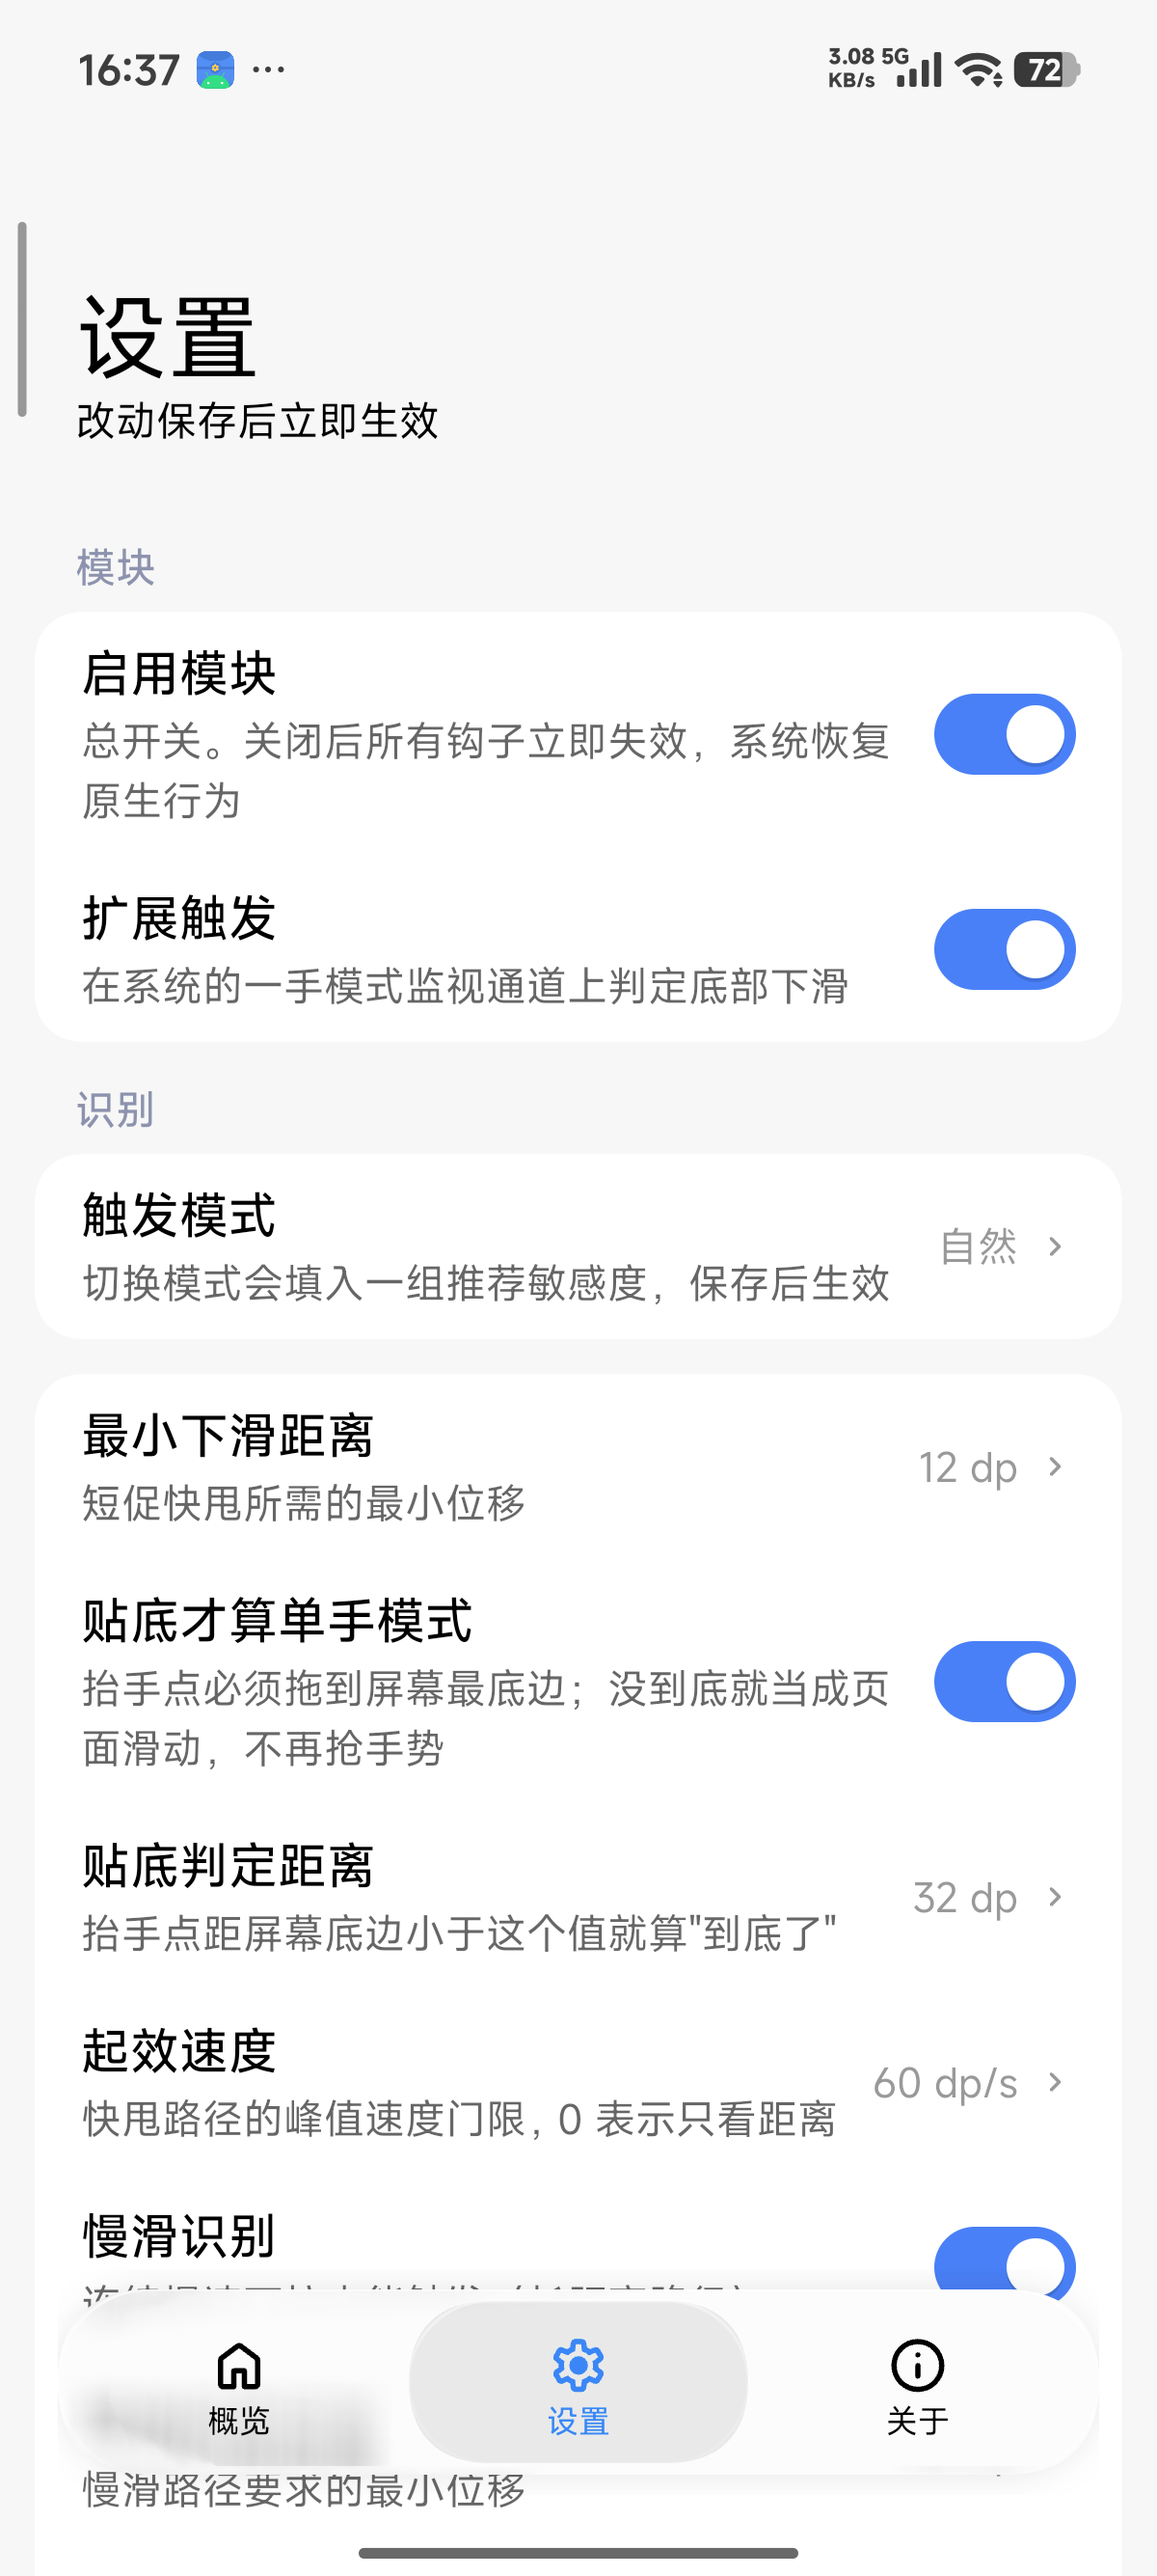
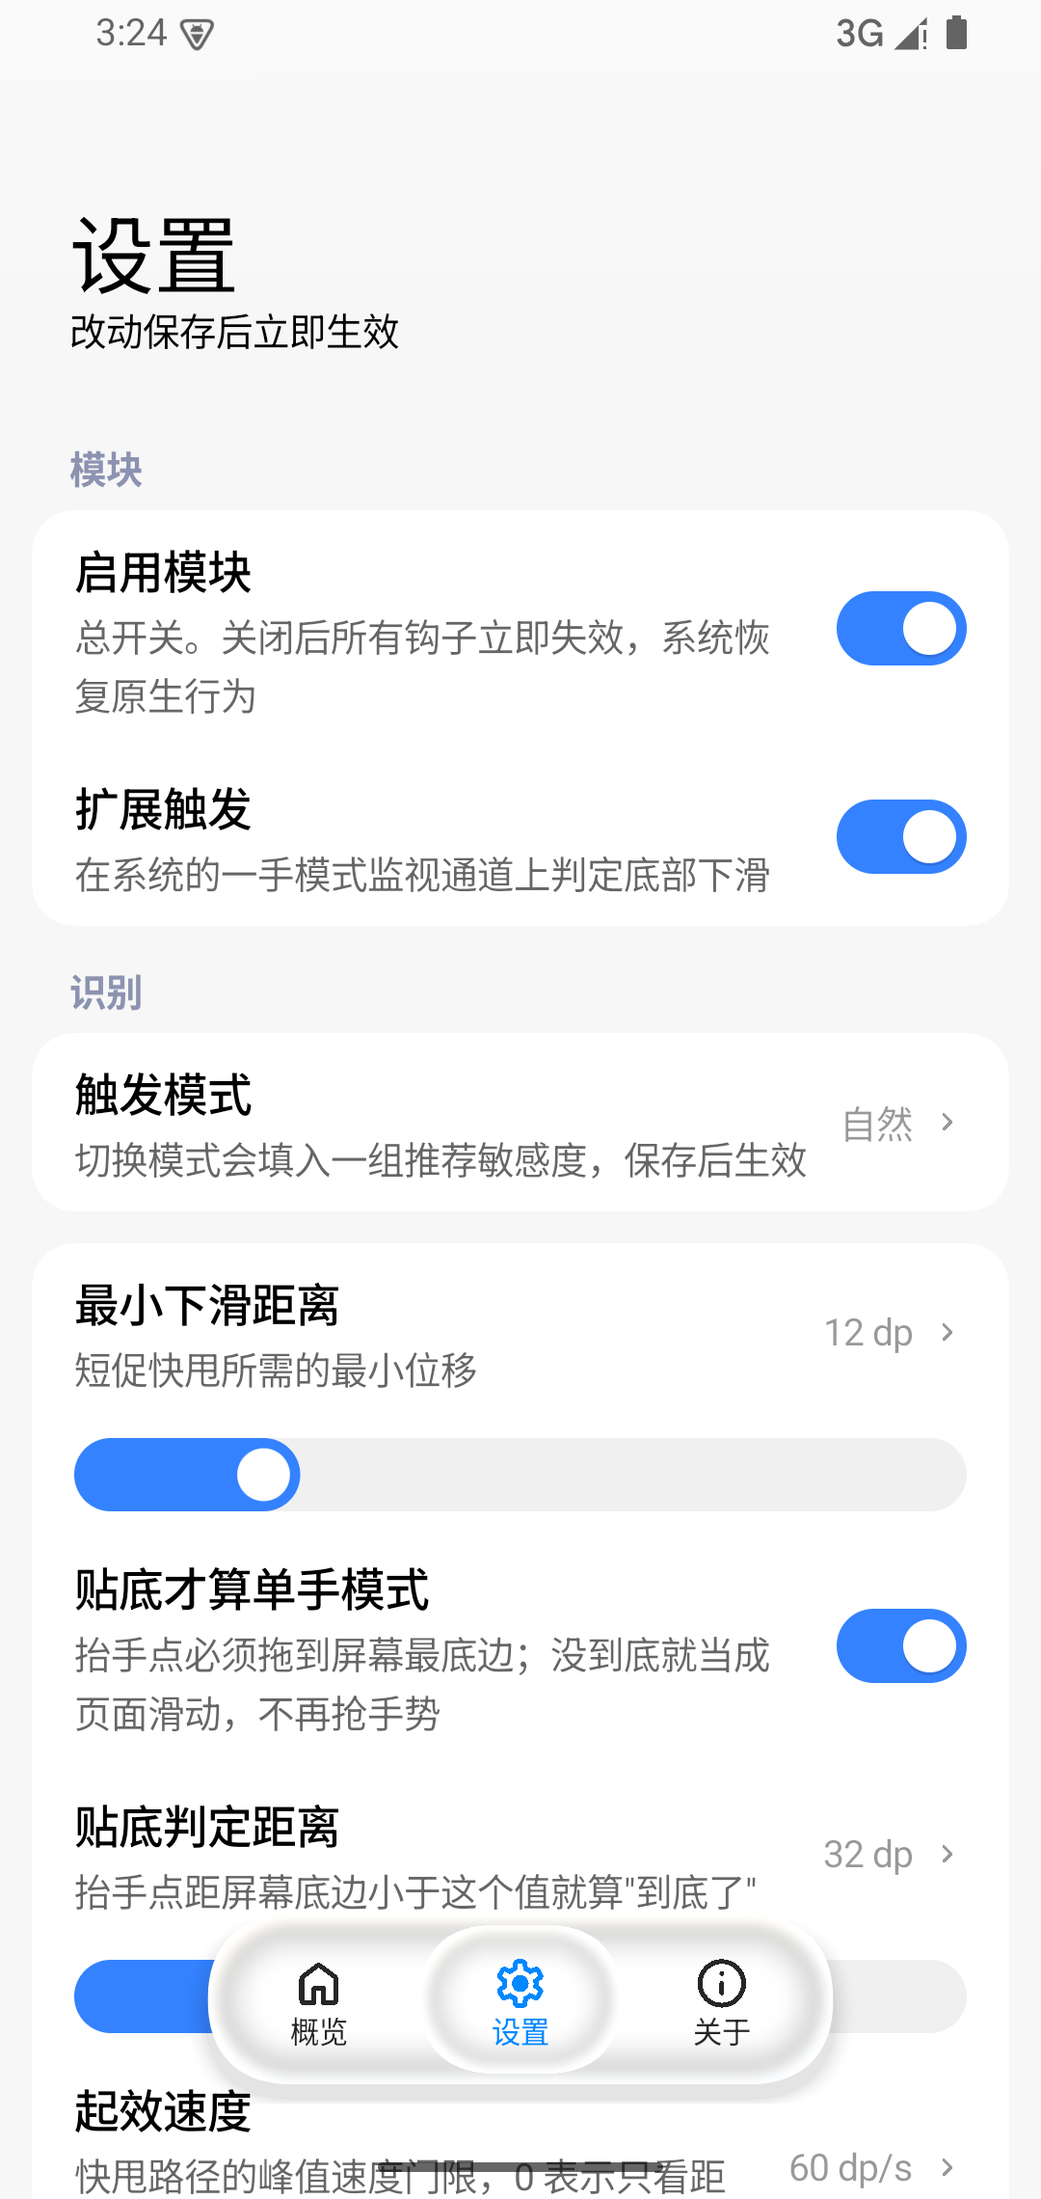
docs: 3.0.2 更新 CHANGELOG / 设计稿对照 / 截图；对话框也换成 Miuix Slider
- 数值对话框里的 SeekBar 换成 MiuixSlider（与设置页行内那条同一个组件）
- MiuixSlider 尊重 padding，onMeasure 不再把高度写死成 28dp
  （否则 '轨道 28dp + 上下 padding' 的布局会把轨道压成一条线）
- 深色模式下圆钮固定白色（onPrimary），压在强调色轨道上才看得清
- 版本号 3.0.1 -> 3.0.2

diff --git a/module/src/io/github/zpan2327/hyperhand/Ui.java b/module/src/io/github/zpan2327/hyperhand/Ui.java
@@ -322,8 +322,9 @@ final class Ui {
                 return null;
             }
             final MiuixSlider s = new MiuixSlider(context, pal, min, max, step, value);
-            s.setPadding(Theme.dp(context, insetDp), Theme.dp(context, 6),
-                    Theme.dp(context, insetDp), Theme.dp(context, 6));
+            int padV = Theme.dp(context, 6);
+            s.setPadding(Theme.dp(context, insetDp), padV,
+                    Theme.dp(context, insetDp), padV);
             s.setOnValue(new MiuixSlider.OnValue() {
                 @Override
                 public void onValue(float v) {
@@ -335,8 +336,9 @@ final class Ui {
                     }
                 }
             });
+            // 高度 = 轨道 28dp + 上下各 6dp，否则 padding 会吃掉轨道高度
             card.addView(s, new LinearLayout.LayoutParams(
-                    ViewGroup.LayoutParams.MATCH_PARENT, Theme.dp(context, 28)));
+                    ViewGroup.LayoutParams.MATCH_PARENT, Theme.dp(context, 28 + 12)));
             return s;
         }
     }
@@ -1008,47 +1010,22 @@ final class Ui {
         u.setPadding(Theme.dp(a, 16), Theme.dp(a, 2), Theme.dp(a, 16), Theme.dp(a, 4));
         box.addView(u);
 
-        final int steps = Math.max(1, Math.round((max - min) / step));
-        SeekBar sb = new SeekBar(a);
-        sb.setMax(steps);
-        sb.setProgress(Math.round((current - min) / step));
-        sb.setSplitTrack(false);
-        sb.setProgressDrawable(sliderTrack(a, p));
-        // 圆钮：白色外圈 + 强调色内芯，放在白色卡片上也有轮廓
-        int outer = Theme.dp(a, 26);
-        GradientDrawable ring = new GradientDrawable();
-        ring.setShape(GradientDrawable.OVAL);
-        ring.setColor(p.card);
-        ring.setSize(outer, outer);
-        GradientDrawable core = new GradientDrawable();
-        core.setShape(GradientDrawable.OVAL);
-        core.setColor(p.primary);
-        core.setSize(outer, outer);
-        LayerDrawable thumb = new LayerDrawable(new Drawable[] {ring, core});
-        thumb.setLayerInset(1, Theme.dp(a, 5), Theme.dp(a, 5), Theme.dp(a, 5), Theme.dp(a, 5));
-        sb.setThumb(thumb);
-        sb.setThumbOffset(0);
-        sb.setPadding(Theme.dp(a, 24), Theme.dp(a, 16), Theme.dp(a, 24), Theme.dp(a, 8));
-        box.addView(sb, new LinearLayout.LayoutParams(
-                ViewGroup.LayoutParams.MATCH_PARENT, Theme.dp(a, 48)));
-
         final float[] result = {current};
-        sb.setOnSeekBarChangeListener(new SeekBar.OnSeekBarChangeListener() {
+        // 对话框里也用 miuix Slider，和设置页行内那条是同一个组件
+        final MiuixSlider sb = new MiuixSlider(a, p, min, max, step, current);
+        sb.setOnValue(new MiuixSlider.OnValue() {
             @Override
-            public void onProgressChanged(SeekBar seekBar, int progress, boolean fromUser) {
-                result[0] = Math.min(max, min + progress * step);
-                big.setText(fmt(result[0], decimals));
-            }
-
-            @Override
-            public void onStartTrackingTouch(SeekBar seekBar) {
-            }
-
-            @Override
-            public void onStopTrackingTouch(SeekBar seekBar) {
+            public void onValue(float v) {
+                result[0] = v;
+                big.setText(fmt(v, decimals));
             }
         });
-        result[0] = Math.min(max, min + sb.getProgress() * step);
+        int padH = Theme.dp(a, 24);
+        sb.setPadding(padH, Theme.dp(a, 14), padH, Theme.dp(a, 6));
+        // 高度 = 轨道 28dp + 上下 padding，轨道才是完整的 28dp
+        box.addView(sb, new LinearLayout.LayoutParams(
+                ViewGroup.LayoutParams.MATCH_PARENT, Theme.dp(a, 28 + 20)));
+        result[0] = sb.value();
         big.setText(fmt(result[0], decimals));
 
         TextView cancel = dialogTextButton(a, p, "取消", p.summary, false);

diff --git a/module/src/io/github/zpan2327/hyperhand/MiuixSlider.java b/module/src/io/github/zpan2327/hyperhand/MiuixSlider.java
@@ -96,19 +96,27 @@ final class MiuixSlider extends View {
 
     @Override
     protected void onMeasure(int w, int h) {
-        setMeasuredDimension(MeasureSpec.getSize(w), Theme.dp(getContext(), 28));
+        // 高度交给布局：调用方给的是「轨道 28dp + 上下 padding」，
+        // 这里再写死 28dp 会把轨道压成一条线。
+        int height = MeasureSpec.getMode(h) == MeasureSpec.UNSPECIFIED
+                ? Theme.dp(getContext(), 28)
+                : MeasureSpec.getSize(h);
+        setMeasuredDimension(MeasureSpec.getSize(w), Math.max(height, Theme.dp(getContext(), 28)));
     }
 
     @Override
     protected void onDraw(Canvas canvas) {
-        float barH = getHeight();
-        float barW = getWidth();
+        // 左右留出 padding，轨道才不会贴着卡片边
+        float left = getPaddingLeft();
+        float top = getPaddingTop();
+        float barW = Math.max(1f, getWidth() - getPaddingLeft() - getPaddingRight());
+        float barH = Math.max(1f, getHeight() - getPaddingTop() - getPaddingBottom());
         float r = barH / 2f;
         float available = Math.max(0f, barW - 2f * r);
         float frac = (value - min) / (max - min);
-        float cx = r + frac * available;
+        float cx = left + r + frac * available;
 
-        track.set(0, 0, barW, barH);
+        track.set(left, top, left + barW, top + barH);
 
         // 轨道背景（sliderBackground）
         paint.setStyle(Paint.Style.FILL);
@@ -125,13 +133,13 @@ final class MiuixSlider extends View {
         paint.setColor(pal.primary);
         paint.setStrokeWidth(barH);
         paint.setStrokeCap(Paint.Cap.ROUND);
-        canvas.drawLine(r, barH / 2f, Math.max(r, cx), barH / 2f, paint);
+        canvas.drawLine(left + r, top + barH / 2f, Math.max(left + r, cx), top + barH / 2f, paint);
 
-        // 圆钮：onPrimary，半径 = r × 0.72 × 缩放
+        // 圆钮：miuix 用 onPrimary（深色模式下也是白的），压在强调色轨道上才看得清
         float thumbR = r * 0.72f * thumbScale.value;
         paint.setStyle(Paint.Style.FILL);
-        paint.setColor(pal.night ? 0xFF101010 : 0xFFFFFFFF);
-        canvas.drawCircle(cx, barH / 2f, thumbR, paint);
+        paint.setColor(0xFFFFFFFF);
+        canvas.drawCircle(cx, top + barH / 2f, thumbR, paint);
     }
 
     // ---------------------------------------------------------------- 手势
@@ -170,9 +178,13 @@ final class MiuixSlider extends View {
     }
 
     private void applyTouch(float x, boolean force) {
-        float r = getHeight() / 2f;
-        float available = Math.max(1f, getWidth() - 2f * r);
-        float frac = Math.max(0f, Math.min(1f, (x - r) / available));
+        // 与 onDraw 用同一套几何：扣掉 padding 之后的可用区间
+        float left = getPaddingLeft();
+        float barH = Math.max(1f, getHeight() - getPaddingTop() - getPaddingBottom());
+        float barW = Math.max(1f, getWidth() - getPaddingLeft() - getPaddingRight());
+        float r = barH / 2f;
+        float available = Math.max(1f, barW - 2f * r);
+        float frac = Math.max(0f, Math.min(1f, (x - left - r) / available));
         float raw = min + frac * (max - min);
         float next = clampToStep(raw);
         if (next == value && !force) {
@@ -180,7 +192,6 @@ final class MiuixSlider extends View {
         }
         value = next;
         invalidate();
-        // 到达两端给边界触感，中间每格给 MESH_LIGHT
         if (listener != null) {
             listener.onValue(value);
         }

diff --git a/docs/设计稿对照.md b/docs/设计稿对照.md
@@ -58,20 +58,38 @@
 ## 液态玻璃底栏
 
 源码是 Compose + `drawBackdrop`（vibrancy → blur → lens + BloomStroke 高光 + InnerShadow，
-外加 DampedDragAnimation 的弹簧手势）。本项目是原生 View，按同样的三层结构重画：
+外加 DampedDragAnimation 的弹簧手势）。本项目是原生 View，结构对齐 Kyant0 的
+`LiquidBottomTabs`，**折射与边缘光直接移植手机上 `io.github.hyperisland` 的实现**
+（`LiquidGlassDrawable.REFRACTION_SHADER` + `LiquidGlassEdgeHighlight.SDR_EDGE_SHADER`）：
 
 | 层 | 源码 | 本项目 |
 |---|---|---|
-| 玻璃体 | `vibrancy() → blur(8dp) → lens(24dp, 24dp)` + `surface @ 40%` | 页面内容降采样到 28% + 可分离盒式模糊，再走 `drawBitmapMesh` 的圆角 SDF 折射；底色 `surface @ 62%` |
-| 折射层 | alpha=0 的强调色图标层，只参与透镜采样 | 同思路：选中项的强调色图标单独绘制在指示器之上 |
-| 指示器 | 56dp 胶囊，`lens(10dp·p, 14dp·p)`，表面 `black 10%×(1-p)+black 3%·p` | 同尺寸与蒙版；**静止时不采样内容**，按下才叠折射层 |
-| 高光 | BloomStroke 双光源 + InteractiveHighlight | 上亮下暗的 SDF 描边 + 跟随手指的径向白光（ADD 混合） |
-| 投影 | `Shadow(radius 10dp)`，亮 0.1 / 暗 0.2 | 同参数（`drawSoftShadow`） |
+| 玻璃体 | `vibrancy() → blur(8dp) → lens(24dp, 24dp)` | 页面内容按 0.5 采样 → 可分离盒式模糊（9dp）→ 折射 AGSL；叠色 `white @ 8%` |
+| 折射 | 圆角矩形 SDF + `circleMap` 位移 + RGB 分离采样 | 同一条 shader：`uRefractionHeight = 0.16 × min(w,h) × 1.25`、`uRefractionAmount = -0.16 × min(w,h) × 2`、色散 `0.18 × 0.12` |
+| 边缘高光 | `SDR_EDGE_SHADER`：SDF 梯度当法线 × 光照方向 | 同一颗 shader，光向 `(-0.45, -0.89)`；迎光边亮、背光边暗，另有一条 `lensBand` |
+| 折射层 | alpha=0 的强调色图标层，只参与透镜采样 | 选中项的强调色图标画在指示器之上 |
+| 指示器 | 56dp 胶囊，`lens(10dp·p, 14dp·p)` | 同尺寸；折射带宽与位移随按下/速度放大，像推一颗水珠 |
+| 投影 | `Shadow(radius 10dp)`，亮 0.1 / 暗 0.2 | 同参数 |
 
-> **为什么静止时不采样**：这台机器的硬件画布不执行 `Paint/RenderNode` 上的 `RenderEffect`，
-> 也没有可用的 RuntimeShader 折射（实测 40dp 模糊都毫无变化）。CPU 网格折射在静止状态下
-> 会把底下的文字拖成一片脏痕。所以底栏本体走"降采样 + 盒式模糊"，指示器静止时退化成
-> miuix `GlassTabRow` / SonyPods 无模糊分支的纯色磨砂胶囊，按下才出现折射与色散。
+> **两个必须记住的坑**
+>
+> 1. **先模糊，再折射。** 顺序反了，位移采样到的都是带文字的锐利像素，
+>    边缘会被撕成一圈彩色条纹。
+> 2. **AGSL 里所有局部变量名必须全局唯一。** Skia 会把辅助函数内联进 `main`，
+>    两个函数各自的 `q` / `distance` 内联后落在同一作用域，直接报 `redefinition`，
+>    整颗 shader 编译失败并静默退化成"只有模糊"。这就是之前"液态玻璃完全不是一回事"的根因。
+
+## 折叠标题栏：渐进式模糊
+
+对应 miuix 的 `ProgressiveBlur.Top`（`angle / startFraction / endFraction / curve`）。
+做法不是"整体上移淡出"，而是：
+
+1. 抓标题栏底下那一条内容，按 7~12dp 模糊（折叠越深半径越小）；
+2. 用一层自底向上的 alpha 遮罩把模糊衰减到 0，与内容无缝衔接；
+3. 最上面再压一层极淡的面色（0.40 → 0.74，随折叠加深），保证彩色背景上标题仍读得清。
+
+> 底色不能用 `pal.bg`：演示模式下它是全透明，`setColor()` 之后再 `setAlpha()`
+> 会画出一条黑带。
 
 ## 与 Miuix 的差异
 
@@ -81,11 +99,32 @@
 - **不做手动主题切换**：深浅色跟随系统 `uiMode`，切换时重建 Activity 避免两套 token 混用。
 - **折叠标题栏是自绘的**：没有 NestedScrollConnection，由 `ScrollView.getScrollY()` 驱动。
 
+## 触感
+
+基线是 Android 的 `View.performHapticFeedback`，但澎湃 OS 的线性马达有一整套专用效果 id
+（`miui.view.MiuiHapticFeedbackConstants`，`FLAG_MIUI_HAPTIC | n`）。本项目按场景分别下发，
+不用 `VibrationEffect` 合成波形（那样听感/手感都像转子马达）：
+
+| 场景 | 效果 |
+|---|---|
+| 点按钮 / 行 | `TAP_LIGHT` |
+| 主按钮（保存、确定） | `BUTTON_MIDDLE` |
+| 开关切换 | `SWITCH` |
+| 底栏换页 / 页面滑动吸附 | `FLICK_LIGHT` |
+| 滚动到边界 | `SCROLL_EDGE` |
+| 滑杆每一格 | `MESH_LIGHT` |
+| 弹出菜单 | `POPUP_LIGHT` |
+
+下发顺序：`miuix.util.HapticFeedbackCompat#performHapticFeedback(int)` 反射 →
+`View.performHapticFeedback` → `VibrationEffect.Composition` → 单次波形，逐级退化。
+32ms 节流，且尊重系统的「触感反馈」开关。
+
 ## 交互
 
 | 操作 | 行为 |
 |---|---|
 | 点开关行的任意位置 | 切换开关（对齐 `SwitchPreference`） |
+| 拖数值行下面的滑杆 | 实时改值（对齐 `SliderPreference` 的 bottomAction），每格 `MESH_LIGHT` 触感 |
 | 点数值行 | 弹出滑杆对话框，范围与步长按参数定义 |
 | 对话框「确定」 | 只改本地显示值，并浮出「保存并立即生效」胶囊 |
 | 「保存并立即生效」 | 一次性广播到 SystemUI，写入 `Settings.Global` |

diff --git a/CHANGELOG.md b/CHANGELOG.md
@@ -2,6 +2,45 @@
 
 所有值得注意的改动都会记录在这里。格式参考 [Keep a Changelog](https://keepachangelog.com/zh-CN/1.1.0/)，版本号遵循 [语义化版本](https://semver.org/lang/zh-CN/)。
 
+## [3.0.2] - 2026-11-10
+
+这一版是「液态玻璃」重写：直接反编译手机上的 `io.github.hyperisland`，
+把它的折射实现搬过来替换原来的近似做法。界面版式不变。
+
+### Fixed
+
+- **液态玻璃此前只有模糊、没有折射**：Skia 的 AGSL 编译器会把辅助函数<b>内联</b>进 `main`，
+  `sdRoundedBox` / `gradRoundedBox` 与 `main` 里同名的局部变量（`q`、`distance`…）
+  内联后落在同一作用域，报 `redefinition`，整颗 shader 编译失败后静默退化成"只模糊"。
+  现在所有局部变量都加了唯一前缀，并修正了 `uOrigin` 的语义（形状左上角相对采样区左上角）。
+- 演示模式下 `pal.barBg` / `pal.bg` 是全透明，`setColor()` 之后再 `setAlpha()` 会画出
+  <b>黑带</b>（折叠标题栏变黑、`Theme.alpha(0x00000000, .55f)` 算成半透明黑）；
+  涉及 `TopBar` 的底色渐变与 `MiuixBg` 的底部收边。
+- 关于页英雄区在 420dp 处有一道硬边：`MiuixBg` 在演示模式下改用 `DST_OUT` 自淡出。
+
+### Changed
+
+- **折射用真 AGSL**（`LiquidGlass`）：移植 `LiquidGlassDrawable.REFRACTION_SHADER` 与
+  `LiquidGlassEdgeHighlight.SDR_EDGE_SHADER`。半径矩形 SDF + `circleMap` 位移 + RGB 分离采样
+  （色散），边缘高光由 SDF 梯度当法线、和光照方向点乘得出。管线顺序也照原实现：
+  <b>先模糊，再折射</b>——反了会把文字撕成彩条。
+- **底栏拖动像"推一颗水珠"**：指示器的折射带宽与位移随按下/拖动速度放大，
+  `lensBand` 与色散同步拉满；形变直接作用在形状矩形上（不套 canvas 变换，
+  否则 AGSL 的设备坐标会和 `uOrigin` 错位）。
+- **折叠标题栏改用渐进式模糊**（`ProgressiveBlur.Top` 语义）：顶部全额模糊、
+  向下衰减到 0，取代原来的整体上移淡出；收起后底色 0.86 透明度，模糊仍可见。
+
+### Added
+
+- **miuix Slider**（`MiuixSlider`）：设置页的数值行（最小下滑距离、贴底判定距离、起效速度…）
+  在行下直接挂一条滑杆，按 `SliderDefaults` 取 28dp 轨道、圆头、knob = 0.72r、
+  按下 1.127 缩放、拖动时轨道叠 black 4.4%；每格给 `MESH_LIGHT` 触感。点行仍可弹窗精确输入。
+- **澎湃 OS 线性马达触感**（`Haptics`）：从 `/system_ext/framework/miui-framework.jar`
+  反编译出 `miui.view.MiuiHapticFeedbackConstants` 的效果 id
+  （`FLAG_MIUI_HAPTIC | n`：TAP_LIGHT / SWITCH / SCROLL_EDGE / MESH_LIGHT / FLICK_LIGHT…），
+  经 `miuix.util.HapticFeedbackCompat` 反射下发。开关、按钮、翻页、滚动到边界、
+  滑杆每一格、弹出菜单各用不同效果，替换原来用 `VibrationEffect` 合成波形的做法。
+
 ## [3.0.1] - 2026-11-09
 
 按 [Miuix](https://github.com/compose-miuix-ui/miuix) 的组件规格、[SonyPods](https://github.com/Mercury000/SonyPods) 的页面版式、
